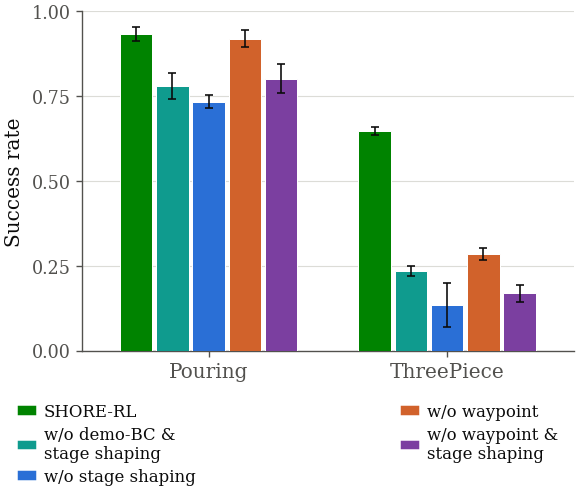
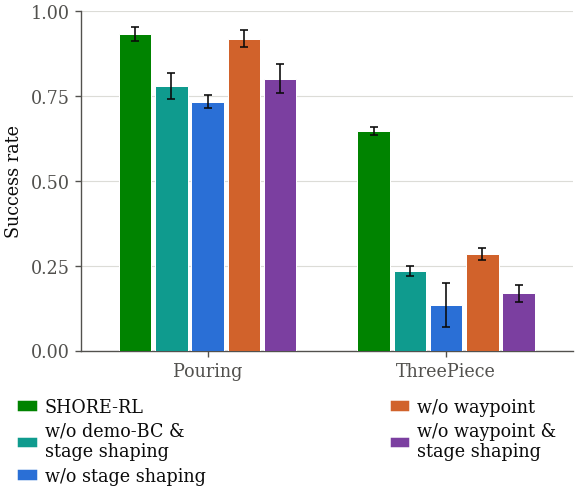
fig: set Figure 5 type to 7pt

diff --git a/paper/plot_ablation_bars_400k.py b/paper/plot_ablation_bars_400k.py
@@ -22,6 +22,7 @@ CR = "dexmg-chunk-residual"
 BUDGET = 400_000
 WINDOW_STEPS = tuple(range(330_000, BUDGET + 1, 10_000))
 FIGSIZE_INCHES = (3.35, 2.75)
+FONT_SIZE_PT = 7
 
 STY = {
     "full": {
@@ -188,7 +189,7 @@ def plot_summaries(summaries, out_pdf, out_png):
     plt.rcParams.update(
         {
             "font.family": "DejaVu Serif",
-            "font.size": 8,
+            "font.size": FONT_SIZE_PT,
             "pdf.fonttype": 42,
             "ps.fonttype": 42,
             "axes.edgecolor": muted,
@@ -251,21 +252,21 @@ def plot_summaries(summaries, out_pdf, out_png):
     ax.yaxis.set_major_locator(MultipleLocator(0.25))
     ax.tick_params(
         axis="x",
-        labelsize=8,
+        labelsize=FONT_SIZE_PT,
         width=0.55,
         length=2.5,
         pad=2,
     )
     ax.tick_params(
         axis="y",
-        labelsize=7,
+        labelsize=FONT_SIZE_PT,
         width=0.55,
         length=2.5,
         pad=2,
     )
     ax.grid(axis="y", color=grid, linewidth=0.45, zorder=0)
     ax.set_axisbelow(True)
-    ax.set_ylabel("Success rate", fontsize=8, labelpad=3)
+    ax.set_ylabel("Success rate", fontsize=FONT_SIZE_PT, labelpad=3)
 
     legend_handles = [
         Patch(
@@ -280,7 +281,7 @@ def plot_summaries(summaries, out_pdf, out_png):
         loc="lower left",
         ncol=2,
         frameon=False,
-        fontsize=6.6,
+        fontsize=FONT_SIZE_PT,
         bbox_to_anchor=(0.05, 0.015, 0.92, 0.22),
         mode="expand",
         borderaxespad=0,

diff --git a/paper/test_plot_ablation_bars_400k.py b/paper/test_plot_ablation_bars_400k.py
@@ -68,6 +68,12 @@ class FixedWindowMetricTest(unittest.TestCase):
 
 
 class FigureContractTest(unittest.TestCase):
+    def test_plot_uses_uniform_seven_point_type(self):
+        self.assertEqual(
+            getattr(ablation_plot, "FONT_SIZE_PT", None),
+            7,
+        )
+
     def test_legend_labels_fit_two_single_column_legend_columns(self):
         for arm in LEGEND_ORDER:
             longest_line = max(
